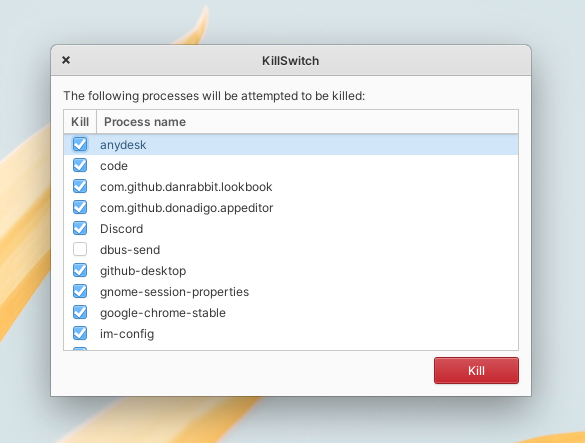
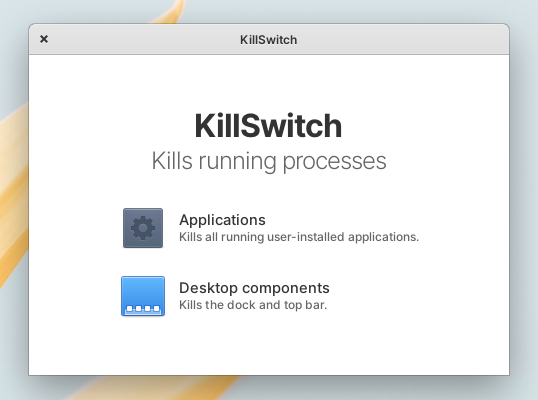
Add a "Desktop components" option and UI rewrite  (#2)
* Use Granite's WelcomeView

This greatly simplifies a lot of UI-related code

* Remove io.elementary.tasks special case

* Show a message dialog when one of the options are clicked

* Update copyright header

* Do not exclude apps with NoDisplay flag

* Add check to see if app is a desktop component

* Don't bother getting icon

* Update README

* Update README

* Remove semicolons and space between open brackets

From copying and pasting Vala code ;p

diff --git a/README.md b/README.md
@@ -7,31 +7,30 @@ Kills all applications. An attempt at making a simple one file app in Python.
 
 ## Running
 
-Requires Python3, GTK3 and Granite. Run with `python3 KillSwitch` or set as executable and run via
+Requires [GTK+-3.0](https://www.gtk.org/), [Granite](https://github.com/elementary/granite/), [PyGObject](https://pygobject.readthedocs.io/en/latest/) and [Python3](https://www.python.org/). Right click on KillSwitch and select 'Run' or run via `python3 KillSwitch`.
 
-```bash
-chmod +x KillSwitch
-./KillSwitch
-```
+## Adding to Applications Menu
 
-## Installing
-
-Recommended:
+<b>With [AppEditor](https://github.com/donadigo/appeditor) (recommended):</b>
 
 1. Install [AppEditor](https://github.com/donadigo/appeditor).
-2. Download KillSwitch (recommended to store somewhere where it won't be accidentally deleted, i.e. in `~/Scripts` for instance).
+2. Download KillSwitch (store it somewhere where it won't be accidentally deleted, i.e. in `~/Scripts` for instance).
 3. Right click on KillSwitch and select "Create a Menu Entry".
 4. Configure it however you want.
 
-Manual:
+<b>Manual:</b>
 
-1. Download KillSwitch (recommended to store somewhere where it won't be accidentally deleted, i.e. in `~/Scripts` for instance).
+1. Download KillSwitch (store it somewhere where it won't be accidentally deleted, i.e. in `~/Scripts` for instance).
 2. Create a `com.github.pongloongyeat.killswitch.desktop` file in `~/.local/share/applications` with the following
 
 ```
 [Desktop Entry]
 Type=Application
-Name[en_US]=KillSwitch
+Name=KillSwitch
 Exec=/path/to/KillSwitch
 Icon=/path/to/icon.svg
 ```
+
+## Debugging
+
+Under the `AppInfo` class, comment out `os.system("pkill {}".format(self.exec_name))` and run via Terminal. Maybe a future, more feature-rich version that's not intended to be written in a single file can have a debugging flag/mode.
